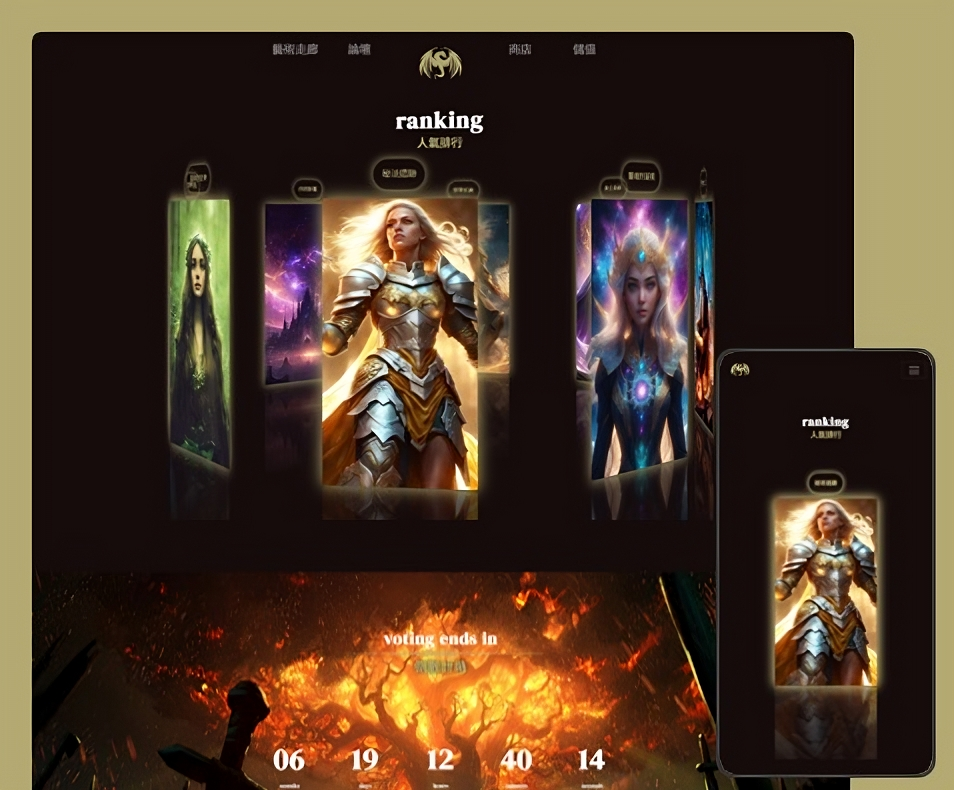
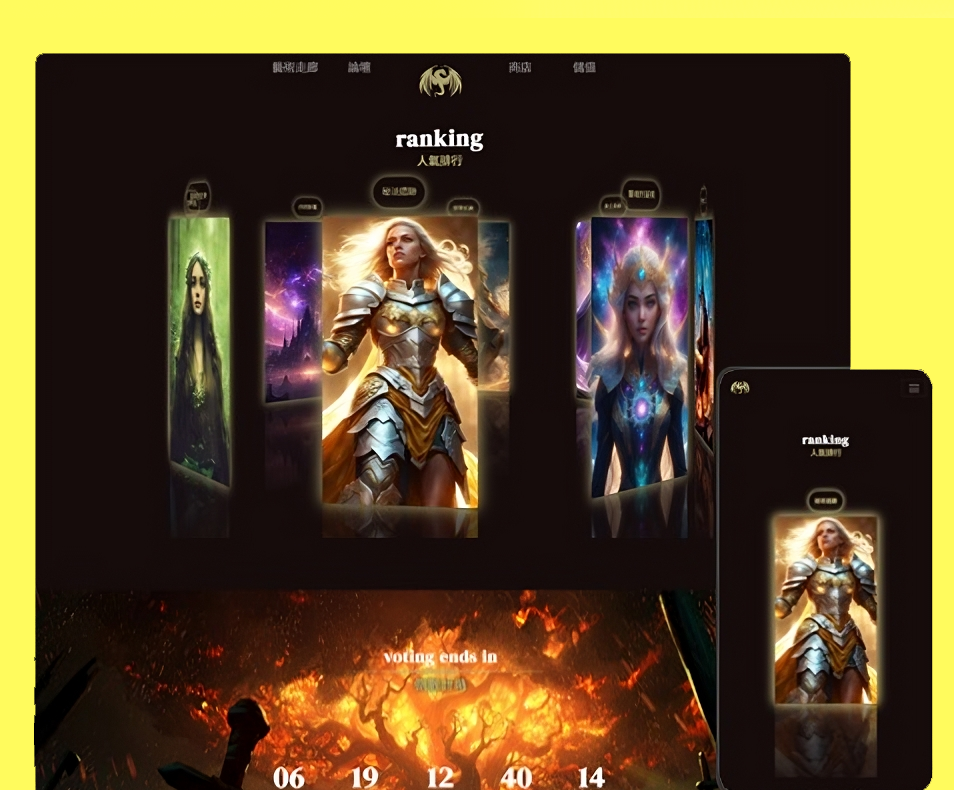
change color-accent, stroke

diff --git a/lib/utils.js b/lib/utils.js
@@ -50,7 +50,7 @@ export const LINKS = [
 // about
 export const ABOUT = {
   title: "About me",
-  description: "Lorem ipsum dolor sit amet consectetur adipisicing elit. Voluptates quibusdam, sunt explicabo inventore.",
+  description: "I love turning ideas into beautiful, seamless web experiences — always learning and adapting fast!",
   info: [
     {
       fieldName: "Name",
@@ -130,7 +130,7 @@ export const EDUCATION = {
 // skills
 export const SKILLS = {
   title: "My skills",
-  description: "Lorem ipsum dolor sit amet consectetur adipisicing elit. Voluptates quibusdam, sunt explicabo inventore.",
+  description: "Skilled in React, JavaScript, Node.js and more, with a focus on scalable web development.",
   skillList: [
     {
       icon: Icons.FaHtml5,
@@ -198,7 +198,7 @@ export const PROJECTS = [
       "Utilized Bootstrap along with integrated HTML and CSS to create a seamless and responsive user experience across various devices",
     stack: [{ name: "Bootstrap" }, { name: "Html 5" }, { name: "Css 3" }],
     image: '/assets/work/pastry_scr.png',
-    live: 'https://github.com/ileneh889/pastries_website',
+    live: 'https://ileneh889.github.io/pastries_website/',
     github: 'https://github.com/ileneh889/pastries_website',
   },
   {

diff --git a/app/work/page.jsx b/app/work/page.jsx
@@ -79,7 +79,7 @@ export default function Work() {
               <div className="flex items-center gap-4">
                 {/* live project btn */}
                 {project.live.length !== 0 &&
-                  <Link href={project.live}>
+                  <a href={project.live} target="_blank">
                     <TooltipProvider delayDuration={100}>
                       <Tooltip>
                         {/* trigger */}
@@ -92,11 +92,11 @@ export default function Work() {
                         </TooltipContent>
                       </Tooltip>
                     </TooltipProvider>
-                  </Link>
+                  </a>
                 }
 
                 {/* github project btn */}
-                <Link href={project.github}>
+                <a href={project.github} target="_blank">
                   <TooltipProvider delayDuration={100}>
                     <Tooltip>
                       {/* trigger */}
@@ -109,7 +109,7 @@ export default function Work() {
                       </TooltipContent>
                     </Tooltip>
                   </TooltipProvider>
-                </Link>
+                </a>
               </div>
             </div>
           </div>

diff --git a/app/contact/page.jsx b/app/contact/page.jsx
@@ -81,7 +81,7 @@ export default function Contact() {
               onSubmit={onSubmit}
             >
               <h3 className="text-4xl text-accent">Let's work together</h3>
-              <p className="text-white/60">Looking for a Front-en developer? Drop a message and let me know you're interested!</p>
+              <p className="text-white/60">Looking for a Front-end developer? Drop a message and let me know you're interested!</p>
               {/* input */}
               <div className="grid grid-cols-1 md:grid-cols-2 gap-6">
                 <Input type="firstname" placeholder="firstname *" name="firstname" value={formData.firstname} onChange={handleChange} required />

diff --git a/app/resume/page.jsx b/app/resume/page.jsx
@@ -61,7 +61,7 @@ export default function Resume() {
                 <div className="flex flex-col gap-[30px]">
                   <div className="flex flex-col gap-[30px] text-center xl:text-left">
                     <h3 className="text-4xl font-bold">{SKILLS.title}</h3>
-                    <p className="max-w-[600px] text-white/60 mx-auto xl:mx-0">{SKILLS.description}</p>
+                    <p className="w-full text-white/60 mx-auto xl:mx-0">{SKILLS.description}</p>
                   </div>
                   <ul className="grid grid-cols-2 sm:grid-cols-3 md:grid-cols-5 gap-4 xl:gap-[20px]">
                     {SKILLS.skillList.map((skill, index) => {

diff --git a/components/Stats.jsx b/components/Stats.jsx
@@ -36,7 +36,7 @@ export default function Stats() {
                 className="text-4xl xl:text-6xl font-extrabold"
               />
               <p
-                className={`${item.text.length < 15 ? "max-w-[100px]" : "max-w-[150px]"} leading-snug text-white/80`}
+                className={`${item.text.length < 15 ? "max-w-[100px]" : "max-w-[150px]"} leading-snug text-accent/80`}
               >
                 {item.text}
               </p>

diff --git a/components/Social.jsx b/components/Social.jsx
@@ -4,8 +4,6 @@ import { FaGithub, FaLinkedinIn, FaYoutube, FaTwitter } from "react-icons/fa";
 const socials = [
   { icon: <FaGithub />, path: "https://github.com/ileneh889" },
   { icon: <FaLinkedinIn />, path: "https://www.linkedin.com/in/yu-wen-huang-291080291/" },
-  // { icon: <FaYoutube />, path: "" },
-  // { icon: <FaTwitter />, path: "" }
 ];
 
 export default function Social({ containerStyles, iconStyles }) {

diff --git a/components/Photo.jsx b/components/Photo.jsx
@@ -51,7 +51,7 @@ export default function Photo({ basepath }) {
             cx="253"
             cy="253"
             r="250"
-            stroke="#80ff92"
+            stroke="#F5DF4D"   //color
             strokeWidth="4"
             strokeLinecap="round"
             strokeLinejoin="round"

diff --git a/app/globals.css b/app/globals.css
@@ -30,6 +30,6 @@
     -webkit-text-stroke: 1px #ffffff;
   }
   .text-outline:hover {
-    -webkit-text-stroke: 1px #00ff99;
+    -webkit-text-stroke: 1px #F5DF4D;
   }
 }
